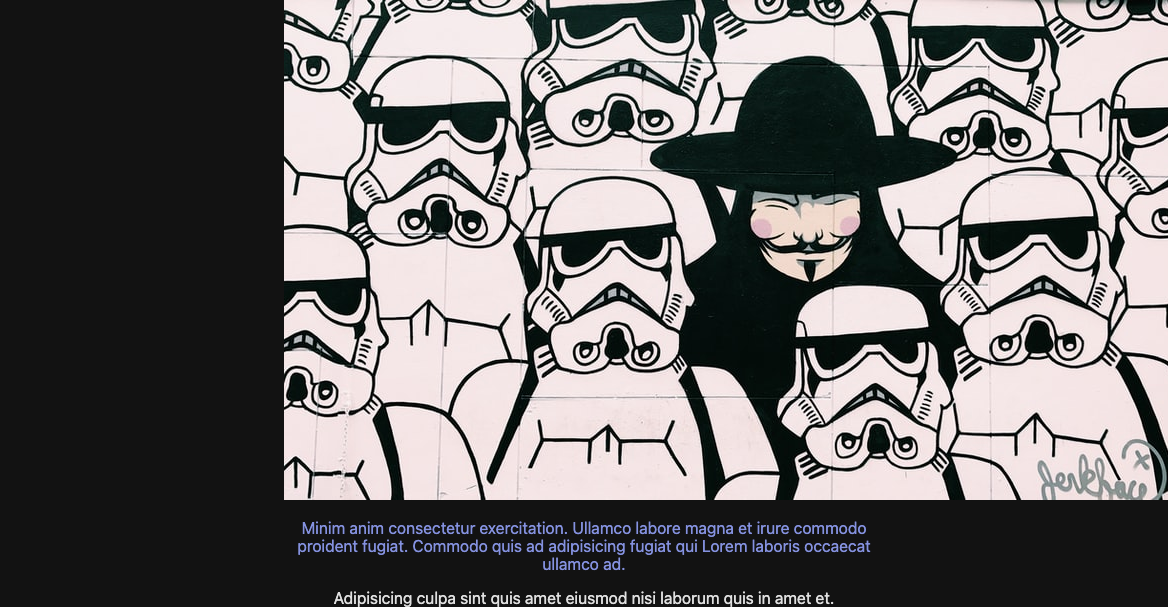
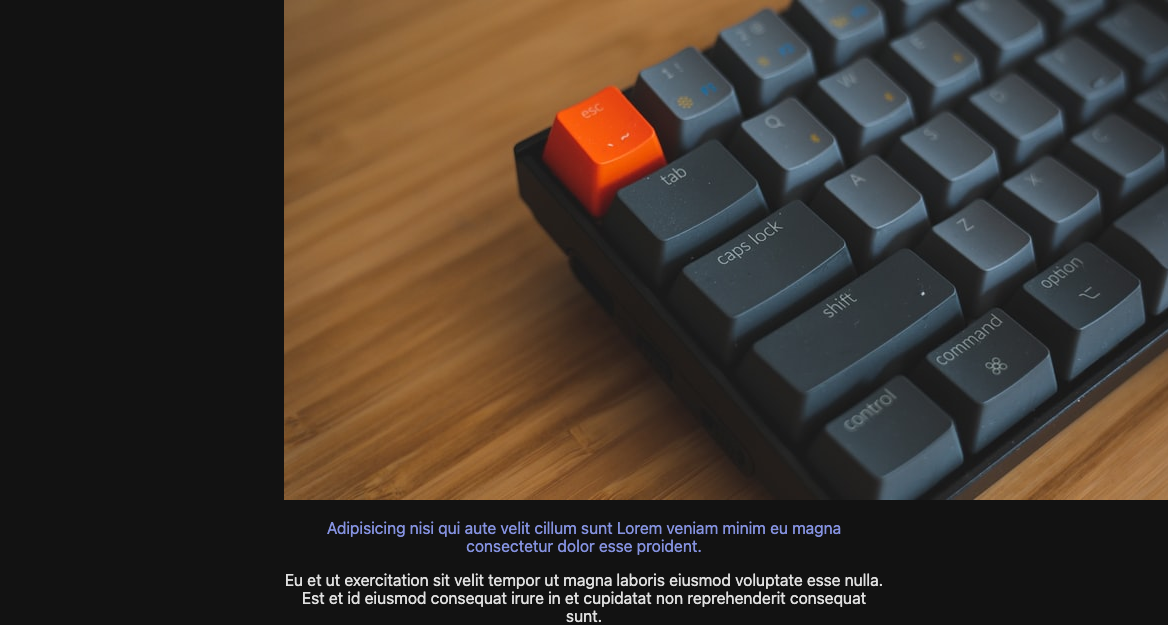
added layout to pages

diff --git a/.slicemachine/assets/slices/TopProducts/index.stories.js b/.slicemachine/assets/slices/TopProducts/index.stories.js
@@ -5,5 +5,5 @@ export default {
 }
 
 
-export const _DefaultSlice = () => <MyComponent slice={{"variation":"default-slice","name":"Default slice","slice_type":"top_products","items":[{"image":{"dimensions":{"width":250,"height":250},"alt":"Placeholder image","copyright":null,"url":"https://images.unsplash.com/photo-1471897488648-5eae4ac6686b?w=250&h=250&fit=crop"},"description":[{"type":"paragraph","text":"Et nisi consectetur irure eu minim voluptate duis labore cupidatat enim. Fugiat deserunt laborum mollit voluptate duis excepteur commodo.","spans":[]}],"link":{"link_type":"Web","url":"https://prismic.io"}},{"image":{"dimensions":{"width":250,"height":250},"alt":"Placeholder image","copyright":null,"url":"https://images.unsplash.com/photo-1498050108023-c5249f4df085?w=250&h=250&fit=crop"},"description":[{"type":"paragraph","text":"Veniam non velit ipsum Lorem ex. Cillum aliqua officia excepteur sunt proident amet amet ex sunt.","spans":[]}],"link":{"link_type":"Web","url":"http://twitter.com"}},{"image":{"dimensions":{"width":250,"height":250},"alt":"Placeholder image","copyright":null,"url":"https://images.unsplash.com/photo-1587905069134-008460d7a636?w=250&h=250&fit=crop"},"description":[{"type":"paragraph","text":"Officia adipisicing nulla laboris.","spans":[]}],"link":{"link_type":"Web","url":"http://twitter.com"}},{"image":{"dimensions":{"width":250,"height":250},"alt":"Placeholder image","copyright":null,"url":"https://images.unsplash.com/photo-1593642532973-d31b6557fa68?w=250&h=250&fit=crop"},"description":[{"type":"paragraph","text":"Reprehenderit enim enim cupidatat consequat. Irure laborum cillum pariatur magna aute ex ipsum sunt dolore sunt ullamco laboris eiusmod occaecat sit.","spans":[]}],"link":{"link_type":"Web","url":"https://prismic.io"}}],"primary":{"galleryTitle":[{"type":"paragraph","text":"Deserunt non ipsum deserunt nulla. Duis voluptate culpa irure. Sunt in nisi enim anim deserunt eu minim.","spans":[]}]},"id":"_DefaultSlice"}} />
+export const _DefaultSlice = () => <MyComponent slice={{"variation":"default-slice","name":"Default slice","slice_type":"top_products","items":[{"image":{"dimensions":{"width":250,"height":250},"alt":"Placeholder image","copyright":null,"url":"https://images.unsplash.com/photo-1586952518485-11b180e92764?w=250&h=250&fit=crop"},"description":[{"type":"paragraph","text":"Dolore velit Lorem dolore. Cupidatat reprehenderit ipsum in nostrud id cillum consectetur quis et aliquip proident. Id non ullamco adipisicing.","spans":[]}],"link":{"link_type":"Web","url":"http://twitter.com"}},{"image":{"dimensions":{"width":250,"height":250},"alt":"Placeholder image","copyright":null,"url":"https://images.unsplash.com/photo-1587614295999-6c1c13675117?w=250&h=250&fit=crop"},"description":[{"type":"paragraph","text":"Eiusmod nisi ipsum nulla nulla elit occaecat occaecat eiusmod culpa adipisicing. Cupidatat cupidatat anim dolore. Ad aliquip anim aliquip dolore commodo mollit cupidatat reprehenderit nostrud eu voluptate aute exercitation.","spans":[]}],"link":{"link_type":"Web","url":"http://google.com"}},{"image":{"dimensions":{"width":250,"height":250},"alt":"Placeholder image","copyright":null,"url":"https://images.unsplash.com/photo-1607582278038-6bebbd4d7b72?w=250&h=250&fit=crop"},"description":[{"type":"paragraph","text":"Elit officia minim consectetur dolor commodo excepteur sunt dolor.","spans":[]}],"link":{"link_type":"Web","url":"http://twitter.com"}},{"image":{"dimensions":{"width":250,"height":250},"alt":"Placeholder image","copyright":null,"url":"https://images.unsplash.com/photo-1589321578146-4c1ba445cc88?w=250&h=250&fit=crop"},"description":[{"type":"paragraph","text":"Dolore aliquip magna consectetur voluptate ea excepteur consequat aute qui adipisicing aliqua pariatur velit.","spans":[]}],"link":{"link_type":"Web","url":"https://prismic.io"}}],"primary":{"galleryTitle":[{"type":"paragraph","text":"Laboris nulla occaecat consectetur ex. Velit ut deserunt dolor voluptate est id est eiusmod fugiat ut amet consequat duis.","spans":[]}]},"id":"_DefaultSlice"}} />
 _DefaultSlice.storyName = 'Default slice'

diff --git a/.slicemachine/assets/slices/Product/index.stories.js b/.slicemachine/assets/slices/Product/index.stories.js
@@ -5,5 +5,5 @@ export default {
 }
 
 
-export const _DefaultSlice = () => <MyComponent slice={{"variation":"default-slice","name":"Default slice","slice_type":"product","items":[],"primary":{"image":{"dimensions":{"width":900,"height":500},"alt":"Placeholder image","copyright":null,"url":"https://images.unsplash.com/photo-1490535004195-099bc723fa1f?w=900&h=500&fit=crop"},"title":[{"type":"paragraph","text":"Minim anim consectetur exercitation. Ullamco labore magna et irure commodo proident fugiat. Commodo quis ad adipisicing fugiat qui Lorem laboris occaecat ullamco ad.","spans":[]}],"description":[{"type":"paragraph","text":"Adipisicing culpa sint quis amet eiusmod nisi laborum quis in amet et.","spans":[]}],"price":[{"type":"paragraph","text":"Officia officia nostrud do fugiat aute proident non. In eu incididunt nostrud irure anim amet cillum minim consectetur nulla ullamco occaecat eiusmod. Sint tempor anim voluptate dolore sit ad quis cupidatat ipsum eiusmod ex.","spans":[]}]},"id":"_DefaultSlice"}} />
+export const _DefaultSlice = () => <MyComponent slice={{"variation":"default-slice","name":"Default slice","slice_type":"product","items":[],"primary":{"image":{"dimensions":{"width":900,"height":500},"alt":"Placeholder image","copyright":null,"url":"https://images.unsplash.com/photo-1600861194802-a2b11076bc51?w=900&h=500&fit=crop"},"title":[{"type":"paragraph","text":"Adipisicing nisi qui aute velit cillum sunt Lorem veniam minim eu magna consectetur dolor esse proident.","spans":[]}],"description":[{"type":"paragraph","text":"Eu et ut exercitation sit velit tempor ut magna laboris eiusmod voluptate esse nulla. Est et id eiusmod consequat irure in et cupidatat non reprehenderit consequat sunt.","spans":[]}],"price":[{"type":"paragraph","text":"Ut aute voluptate est incididunt reprehenderit laborum consectetur nisi veniam ex adipisicing ut cillum excepteur. Excepteur qui cupidatat commodo eu esse fugiat aliquip labore aute est adipisicing labore est laborum sit. Mollit deserunt magna aliqua anim adipisicing duis occaecat.","spans":[]}]},"id":"_DefaultSlice"}} />
 _DefaultSlice.storyName = 'Default slice'

diff --git a/pages/products/[id].js b/pages/products/[id].js
@@ -1,13 +1,13 @@
-import { useRouter } from 'next/router'
 import { server } from '../../config/index'
+import Layout from '../../components/layout'
 
-const product = ({ product }) => {
+const product = (props) => {
     return (
-        <>
-            <h1>{product.name}</h1>
-            <p>{product.description}</p>
-            <p>{product.price}</p>
-        </>
+        <Layout menu={props.menu}>
+            <h1>{props.product.name}</h1>
+            <p>{props.product.description}</p>
+            <p>${props.product.price}</p>
+        </Layout>
     )
 }
 

diff --git a/slices/TopProducts/index.js b/slices/TopProducts/index.js
@@ -6,8 +6,8 @@ const TopProducts = ({ slice }) => (
     <RichText render={slice.primary.galleryTitle} />
     <div className="gallery">
       {slice?.items?.map((item, i) =>
-        <a href={Link.url(item.link)}>
-          <div key={i} className="gallery-item">
+        <a key={i} href={Link.url(item.link)}>
+          <div className="gallery-item">
             <img
               src={item.image.url}
               alt={item.image.alt}
